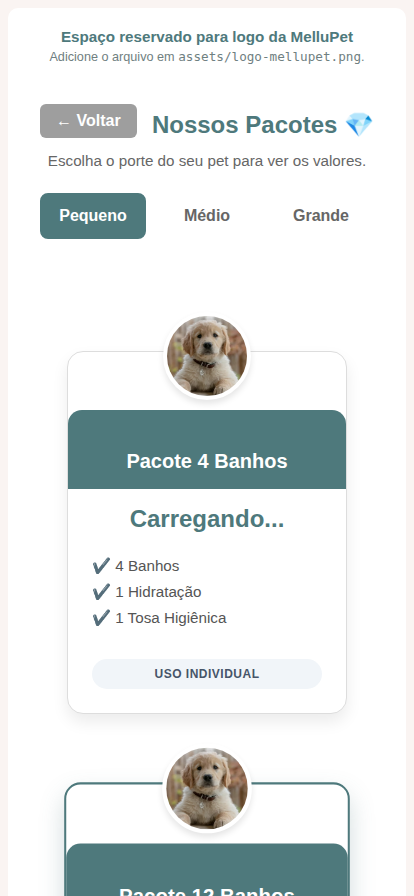
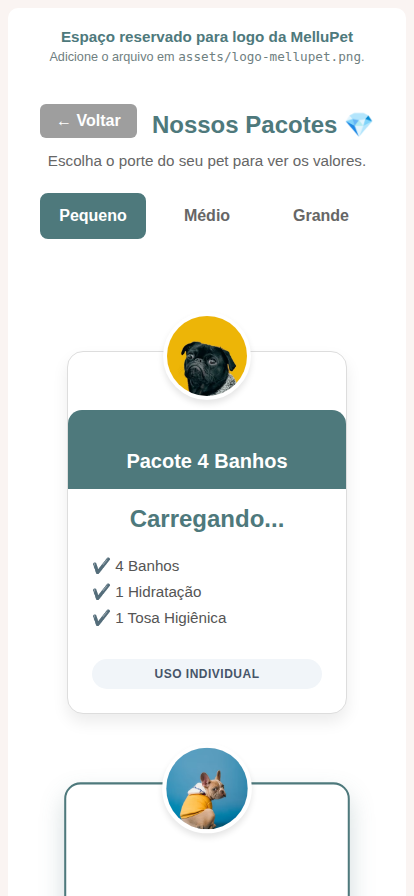
feat(vitrine): update package card visuals, images, and alignment
- Updates `js/index.js` to use an array of 3 distinct Unsplash dog images per pet size (P, M, G).
- Updates `index.html` to set the initial images to the first index of the small dog array.
- Adds `.plano-12` and `.plano-24` classes in `css/index.css` to color-code the package headers.
- Adds a `.badge-premium` with gold accents for the 24-bath package.
- Adds a hover animation to `.pacote-card` with `transform` and a diffused `box-shadow`.
- Changes the extra services container from `grid` to `flex` with `justify-content: center` to ensure the final chip ('Desembolo de nós') aligns beautifully in the center.
- Bumps cache version query parameter `?v=` to 17 in `index.html` and 10 in `painel-94k2.html`.

Changed region(s): [[0.1449, 0.8125, 0.8406, 1.0], [0.4058, 0.3438, 0.6087, 0.4688]]

diff --git a/index.html b/index.html
@@ -18,7 +18,7 @@
     <link rel="icon" href="assets/favicon-32x32.png" type="image/png" sizes="32x32">
     <link rel="apple-touch-icon" href="assets/apple-touch-icon.png">
 
-    <link rel="stylesheet" href="css/index.css?v=16">
+    <link rel="stylesheet" href="css/index.css?v=17">
 </head>
 <body>
 
@@ -210,7 +210,7 @@
 
             <!-- Plano 1 (4 Banhos) -->
             <div class="pacote-card">
-                <img src="https://images.unsplash.com/photo-1591160690555-5debfba289f0?q=80&w=256&auto=format&fit=crop" alt="Cão pequeno" class="pacote-card-img" id="img-plano1">
+                <img src="https://images.unsplash.com/photo-1517849845537-4d257902454a?q=80&w=256&auto=format&fit=crop" alt="Cão pequeno" class="pacote-card-img" id="img-plano1">
                 <div class="pacote-card-header">Pacote 4 Banhos</div>
                 <div class="pacote-card-price" id="vitrine-price-plano1">Carregando...</div>
                 <ul class="pacote-card-list">
@@ -223,8 +223,8 @@
 
             <!-- Plano 2 (12 Banhos) -->
             <div class="pacote-card featured">
-                <img src="https://images.unsplash.com/photo-1591160690555-5debfba289f0?q=80&w=256&auto=format&fit=crop" alt="Cão pequeno" class="pacote-card-img" id="img-plano2">
-                <div class="pacote-card-header">Pacote 12 Banhos</div>
+                <img src="https://images.unsplash.com/photo-1583337130417-3346a1be7dee?q=80&w=256&auto=format&fit=crop" alt="Cão pequeno" class="pacote-card-img" id="img-plano2">
+                <div class="pacote-card-header plano-12">Pacote 12 Banhos</div>
                 <div class="pacote-card-price" id="vitrine-price-plano2">Carregando...</div>
                 <ul class="pacote-card-list">
                     <li>✔ 12 Banhos</li>
@@ -236,8 +236,9 @@
 
             <!-- Plano 3 (24 Banhos) -->
             <div class="pacote-card">
-                <img src="https://images.unsplash.com/photo-1591160690555-5debfba289f0?q=80&w=256&auto=format&fit=crop" alt="Cão pequeno" class="pacote-card-img" id="img-plano3">
-                <div class="pacote-card-header">Pacote 24 Banhos</div>
+                <div class="badge-premium">Mais Vantajoso</div>
+                <img src="https://images.unsplash.com/photo-1518717758536-85ae29035b6d?q=80&w=256&auto=format&fit=crop" alt="Cão pequeno" class="pacote-card-img" id="img-plano3">
+                <div class="pacote-card-header plano-24">Pacote 24 Banhos</div>
                 <div class="pacote-card-price" id="vitrine-price-plano3">Carregando...</div>
                 <ul class="pacote-card-list">
                     <li>✔ 24 Banhos</li>
@@ -252,20 +253,20 @@
         <!-- Rodapé da Vitrine (Adicionais) -->
         <div style="background-color: transparent; padding: 0; margin-bottom: 2.5rem;">
             <h3 style="margin-top: 0; color: var(--primary); text-align: center; margin-bottom: 1.5rem;">Adicione ao seu pacote:</h3>
-            <div style="display: grid; grid-template-columns: repeat(auto-fit, minmax(200px, 1fr)); gap: 1rem;">
-                <div class="extra-chip">
+            <div style="display: flex; flex-wrap: wrap; justify-content: center; gap: 1rem;">
+                <div class="extra-chip" style="flex: 1 1 200px; max-width: 300px;">
                     <span>✂ Corte de unhas</span>
                     <strong id="vitrine-extra-unhas" style="color: var(--primary);">...</strong>
                 </div>
-                <div class="extra-chip">
+                <div class="extra-chip" style="flex: 1 1 200px; max-width: 300px;">
                     <span>🪥 Escovação dos dentes</span>
                     <strong id="vitrine-extra-dentes" style="color: var(--primary);">...</strong>
                 </div>
-                <div class="extra-chip">
+                <div class="extra-chip" style="flex: 1 1 200px; max-width: 300px;">
                     <span>🪮 Carding</span>
                     <strong id="vitrine-extra-carding" style="color: var(--primary);">...</strong>
                 </div>
-                <div class="extra-chip">
+                <div class="extra-chip" style="flex: 1 1 200px; max-width: 300px;">
                     <span>✨ Desembolo de nós</span>
                     <strong id="vitrine-extra-desembolo" style="color: var(--primary);">...</strong>
                 </div>
@@ -314,8 +315,8 @@
     </div>
 </div>
 
-<script src="config/runtime-config.js?v=16" defer></script>
-<script type="module" src="js/index.js?v=16"></script>
+<script src="config/runtime-config.js?v=17" defer></script>
+<script type="module" src="js/index.js?v=17"></script>
 
 
 </body>

diff --git a/js/index.js b/js/index.js
@@ -197,19 +197,31 @@ import { initializeApp } from "https://www.gstatic.com/firebasejs/12.9.0/firebas
         const container = document.getElementById('pacote-cards-container');
         if (container) {
             const imagensPorPorte = {
-                'P': 'https://images.unsplash.com/photo-1591160690555-5debfba289f0?q=80&w=256&auto=format&fit=crop', // Spitz / Cão Pequeno
-                'M': 'https://images.unsplash.com/photo-1537151608804-ea6fac25d409?q=80&w=256&auto=format&fit=crop', // Beagle / Cão Médio
-                'G': 'https://images.unsplash.com/photo-1552053831-71594a27632d?q=80&w=256&auto=format&fit=crop' // Golden / Cão Grande
+                'P': [
+                    'https://images.unsplash.com/photo-1517849845537-4d257902454a?q=80&w=256&auto=format&fit=crop',
+                    'https://images.unsplash.com/photo-1583337130417-3346a1be7dee?q=80&w=256&auto=format&fit=crop',
+                    'https://images.unsplash.com/photo-1518717758536-85ae29035b6d?q=80&w=256&auto=format&fit=crop'
+                ],
+                'M': [
+                    'https://images.unsplash.com/photo-1537151608804-ea6fac25d409?q=80&w=256&auto=format&fit=crop',
+                    'https://images.unsplash.com/photo-1554224311-beee415c201f?q=80&w=256&auto=format&fit=crop',
+                    'https://images.unsplash.com/photo-1583511655857-d19b40a7a54e?q=80&w=256&auto=format&fit=crop'
+                ],
+                'G': [
+                    'https://images.unsplash.com/photo-1552053831-71594a27632d?q=80&w=256&auto=format&fit=crop',
+                    'https://images.unsplash.com/photo-1601758177266-bc599de87707?q=80&w=256&auto=format&fit=crop',
+                    'https://images.unsplash.com/photo-1534361960057-19889db9621e?q=80&w=256&auto=format&fit=crop'
+                ]
             };
 
-            const imageUrl = imagensPorPorte[porte];
+            const images = imagensPorPorte[porte];
             const imgPlano1 = document.getElementById('img-plano1');
             const imgPlano2 = document.getElementById('img-plano2');
             const imgPlano3 = document.getElementById('img-plano3');
 
-            if (imgPlano1) imgPlano1.src = imageUrl;
-            if (imgPlano2) imgPlano2.src = imageUrl;
-            if (imgPlano3) imgPlano3.src = imageUrl;
+            if (imgPlano1) imgPlano1.src = images[0];
+            if (imgPlano2) imgPlano2.src = images[1];
+            if (imgPlano3) imgPlano3.src = images[2];
 
             container.classList.remove('animate-fade-up');
             void container.offsetWidth; // Trigger reflow para reiniciar a animação

diff --git a/css/index.css b/css/index.css
@@ -388,6 +388,12 @@
             position: relative;
             box-sizing: border-box;
             margin-top: 40px; /* Space for the image */
+            transition: transform 0.3s ease, box-shadow 0.3s ease;
+        }
+
+        .pacote-card:hover {
+            transform: translateY(-5px);
+            box-shadow: 0 12px 24px rgba(0, 0, 0, 0.15);
         }
 
         .pacote-card-img {
@@ -420,6 +426,42 @@
             z-index: 1;
             border-top-left-radius: 14px;
             border-top-right-radius: 14px;
+        }
+
+        .pacote-card-header.plano-12 {
+            background-color: var(--sage);
+        }
+
+        .pacote-card-header.plano-24 {
+            background-color: #2a4d50; /* Darker Teal */
+            border-bottom: 2px solid #d4af37; /* Subtle gold border */
+            box-shadow: 0 4px 6px rgba(0, 0, 0, 0.1);
+        }
+
+        .badge-premium {
+            position: absolute;
+            top: 10px;
+            right: -10px;
+            background-color: #d4af37;
+            color: #fff;
+            padding: 4px 12px;
+            font-size: 0.75rem;
+            font-weight: bold;
+            border-radius: 4px;
+            box-shadow: 0 2px 4px rgba(0,0,0,0.2);
+            z-index: 3;
+            text-transform: uppercase;
+            letter-spacing: 0.5px;
+        }
+
+        .badge-premium::after {
+            content: '';
+            position: absolute;
+            top: 100%;
+            right: 0;
+            border-width: 5px 5px 0 0;
+            border-style: solid;
+            border-color: #a3862b transparent transparent transparent;
         }
         .pacote-card-price {
             font-size: 1.5rem;

diff --git a/painel-94k2.html b/painel-94k2.html
@@ -13,8 +13,8 @@
     <link rel="icon" href="assets/favicon-32x32.png" type="image/png" sizes="32x32">
     <link rel="apple-touch-icon" href="assets/apple-touch-icon.png">
 
-    <link rel="stylesheet" href="css/painel-94k2.css?v=9">
-    <script src="config/runtime-config.js?v=9" defer></script>
+    <link rel="stylesheet" href="css/painel-94k2.css?v=10">
+    <script src="config/runtime-config.js?v=10" defer></script>
 </head>
 <body>
 
@@ -462,7 +462,7 @@
     </div>
 </div>
 
-<script type="module" src="js/painel-94k2.js?v=9"></script>
+<script type="module" src="js/painel-94k2.js?v=10"></script>
 
 
 </body>

diff --git a/verification/verify_vitrine_changes.py b/verification/verify_vitrine_changes.py
@@ -1,0 +1,55 @@
+from playwright.sync_api import sync_playwright, expect
+import os
+
+def run_test():
+    with sync_playwright() as p:
+        browser = p.chromium.launch(headless=True)
+        context = browser.new_context()
+        page = context.new_page()
+
+        # Mock Firebase config
+        page.route("**/*.js", lambda route, request: route.continue_() if not request.url.endswith("runtime-config.js") else route.fulfill(
+            content_type="application/javascript",
+            body="""
+            window.__MELLUPET_CONFIG = {
+                firebase: {
+                    apiKey: "mock",
+                    authDomain: "mock",
+                    projectId: "mock",
+                    storageBucket: "mock",
+                    messagingSenderId: "mock",
+                    appId: "mock"
+                }
+            };
+            """
+        ))
+
+        # Mock Firebase ES module imports to prevent errors
+        page.route("https://www.gstatic.com/firebasejs/**", lambda route: route.fulfill(
+            content_type="application/javascript",
+            body="export function initializeApp() {}; export function getFirestore() {}; export function collection() {}; export function getDocs() {}; export function doc() {}; export function getDoc() {}; export function onSnapshot() {}; export function query() {}; export function where() {}; export function addDoc() {}; export function updateDoc() {}; export function deleteDoc() {}; export function getAuth() {}; export function signInWithEmailAndPassword() {}; export function onAuthStateChanged() {}; export function signOut() {}; export function sendPasswordResetEmail() {};"
+        ))
+
+        page.goto("http://localhost:8080/index.html")
+
+        # By default it goes to welcome-screen. Let's go to menu-screen, then pacote-info-screen
+        page.evaluate("document.getElementById('welcome-screen').classList.remove('active');")
+        page.evaluate("document.getElementById('pacote-info-screen').classList.add('active');")
+
+        # Wait for the screen to be visible
+        expect(page.locator("#pacote-info-screen")).to_be_visible()
+
+        # Click the Medium size tab to see different images
+        page.locator("#tab-porte-m").click()
+
+        # Wait a bit for animations
+        page.wait_for_timeout(1000)
+
+        # Take a screenshot of the package info screen
+        os.makedirs("/home/jules/verification", exist_ok=True)
+        page.screenshot(path="/home/jules/verification/vitrine.png", full_page=True)
+
+        browser.close()
+
+if __name__ == "__main__":
+    run_test()
